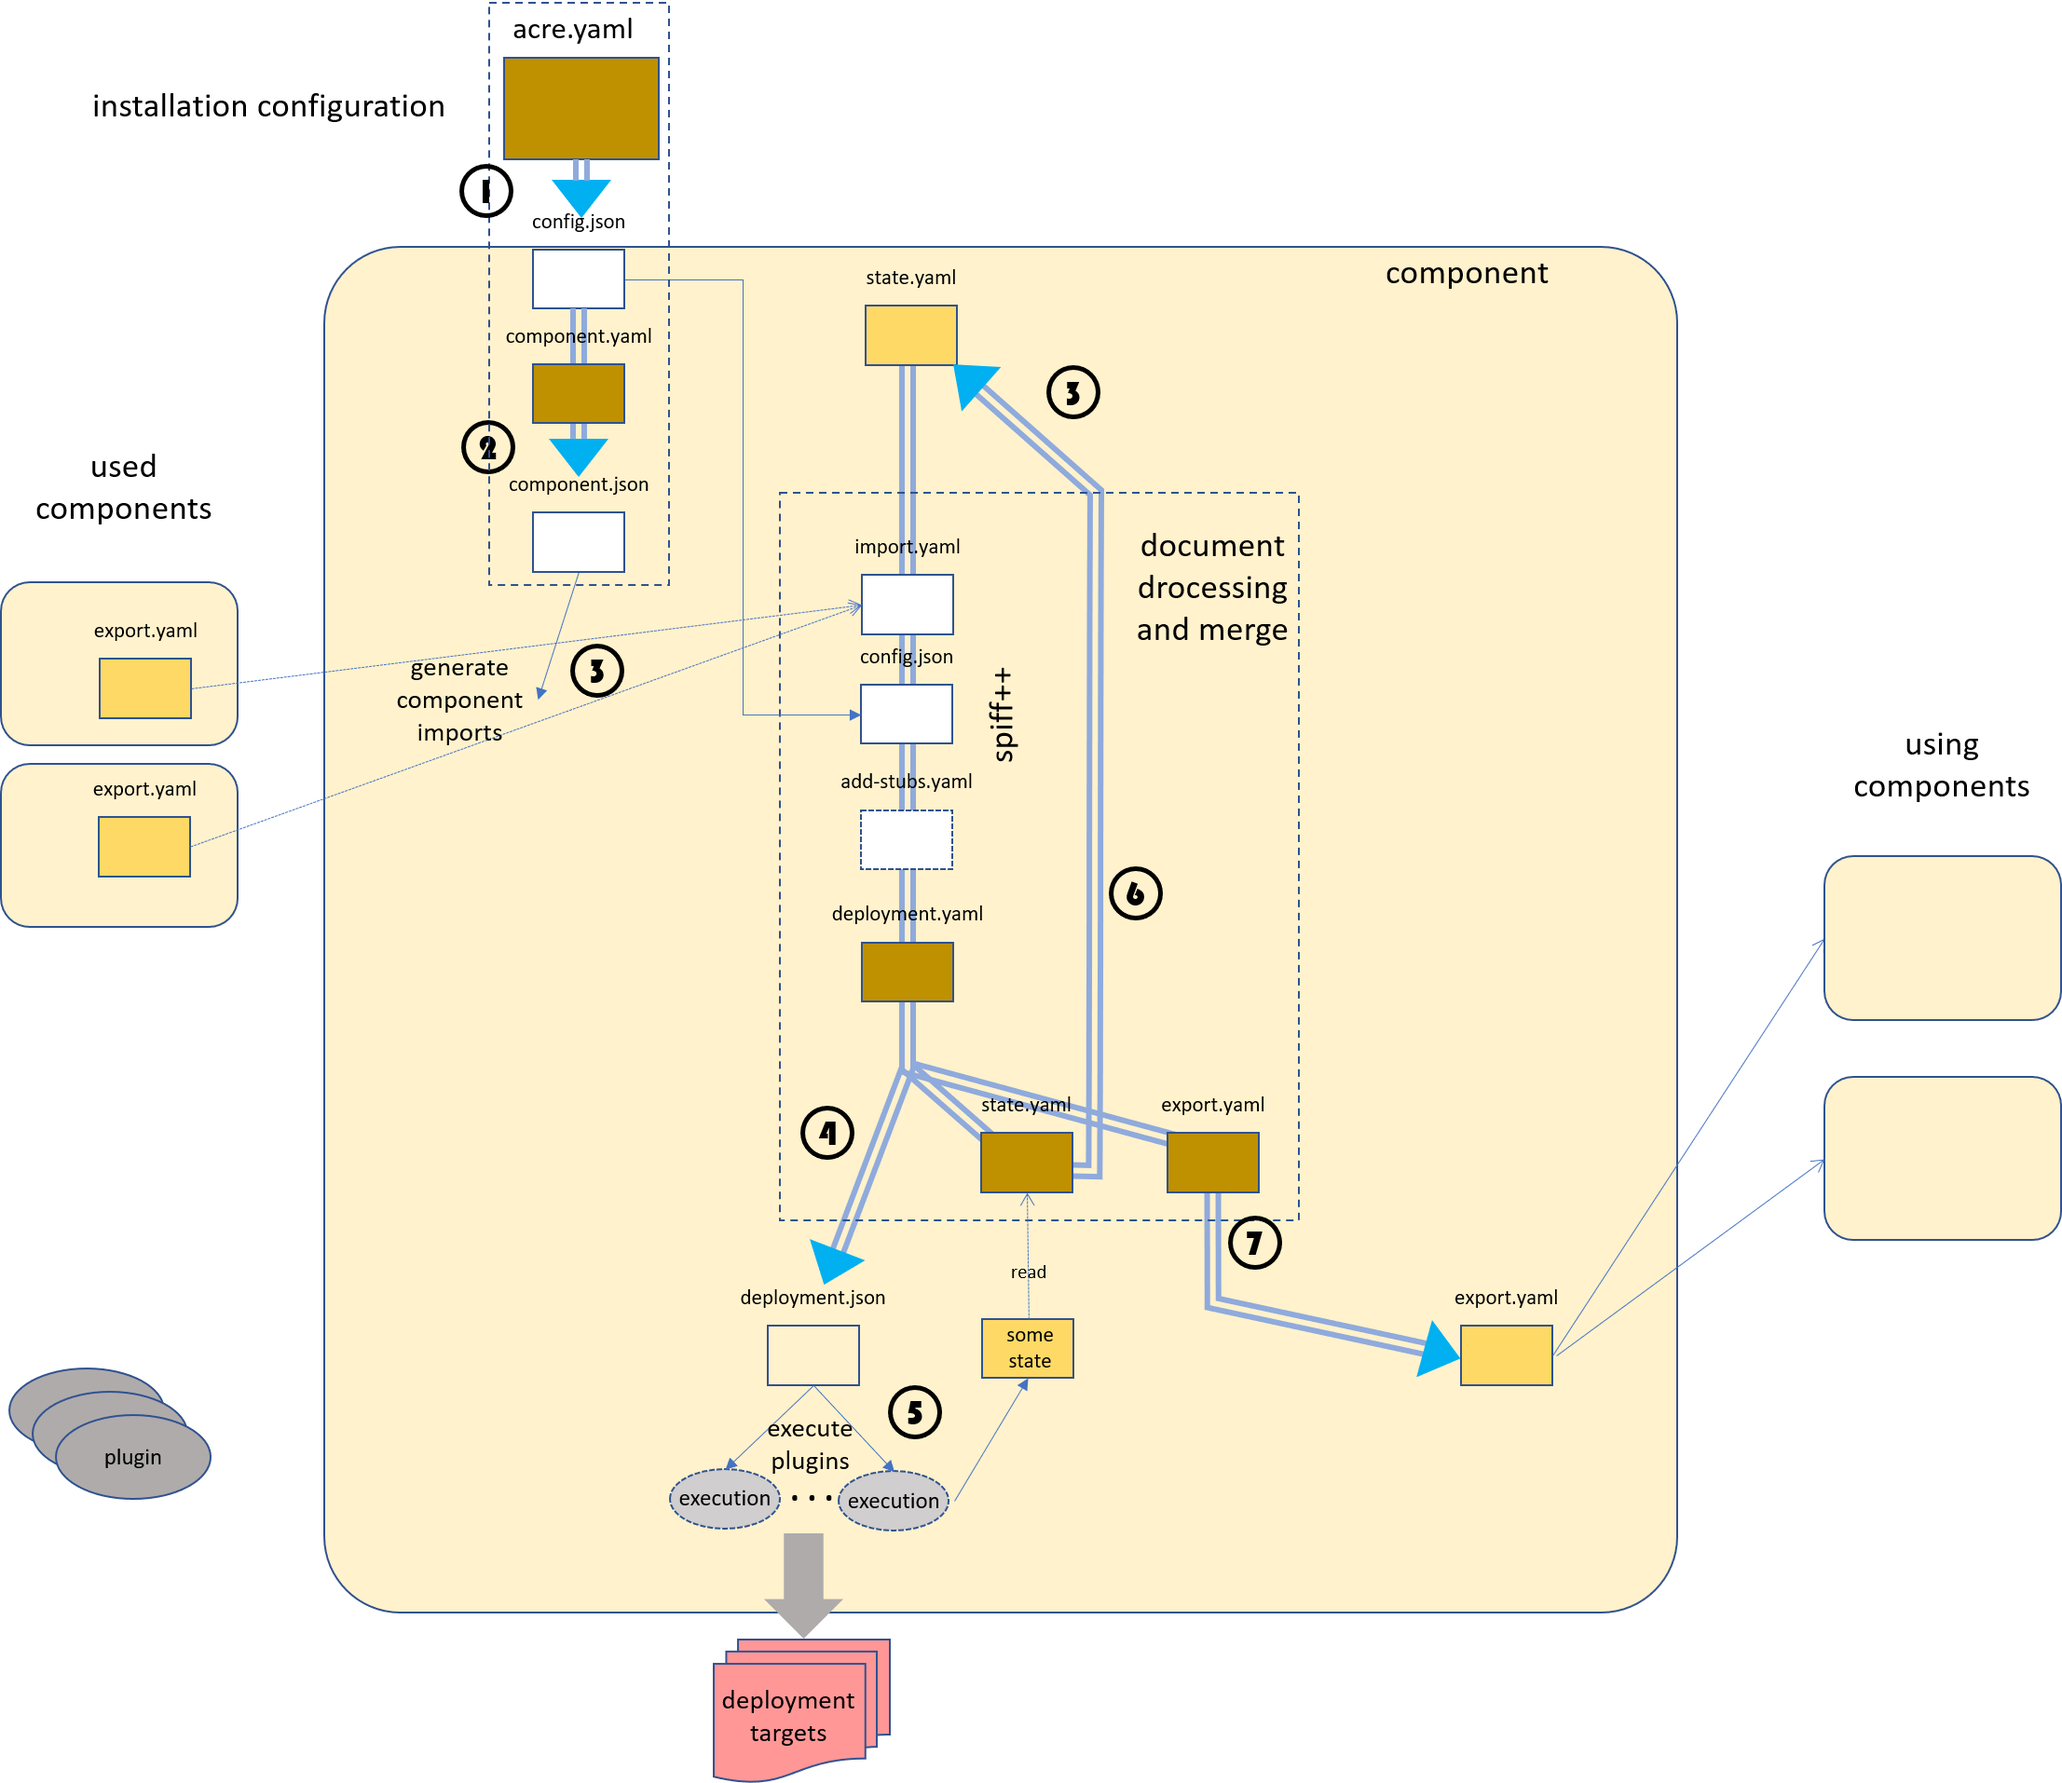
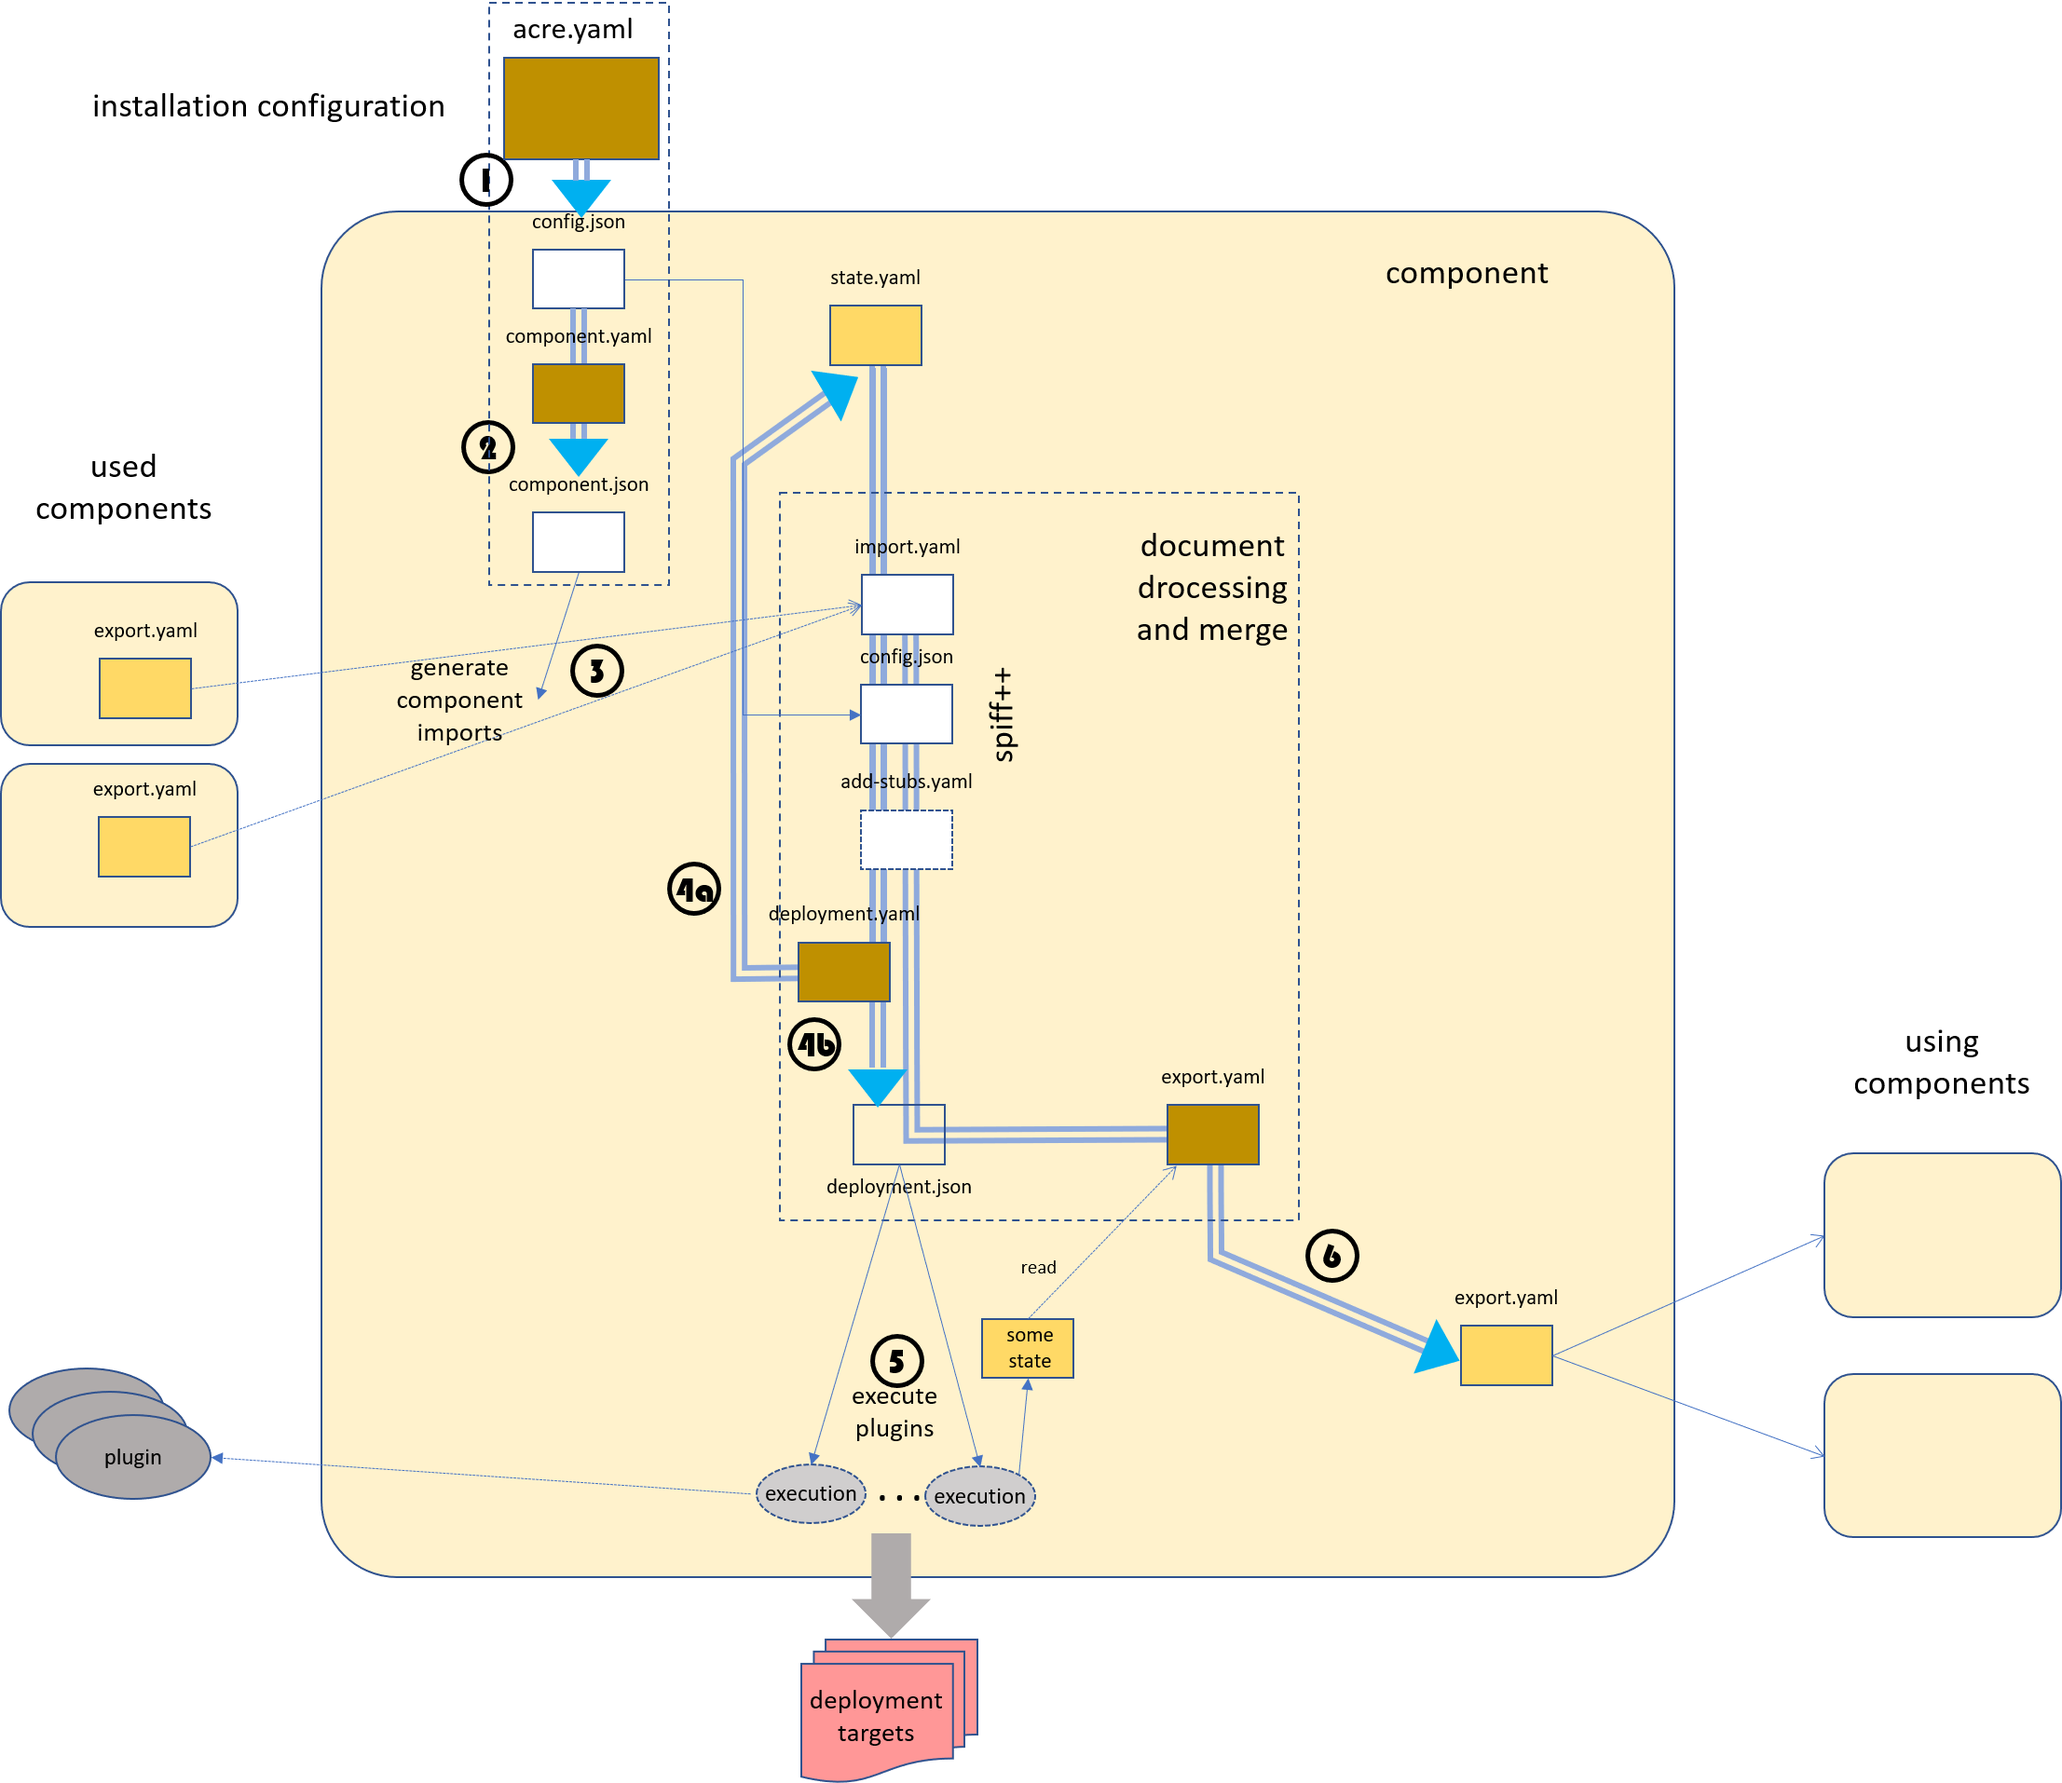
utilize spiff state support

diff --git a/README.md b/README.md
@@ -118,7 +118,6 @@ a kubernetes cluster.
 │   │   ├── comp1
 │   │   │   ├── component.yaml
 │   │   │   ├── deployment.yaml
-│   │   │   ├── state.yaml
 │   │   │   └── export.yaml
 │   │   ├── nested            # components may be nested
 │   │   │   └── comp2
@@ -126,7 +125,6 @@ a kubernetes cluster.
 │   │   │       ├── deployment.yaml
 │   │   │       ├── lib
 │   │   │       │   └── action
-│   │   .       ├── state.yaml
 │   │   .       └── export.yaml
 │   │   .
 │   │
@@ -231,8 +229,8 @@ This document is used to describe the used deployment plugins for a component an
 their configuration settings.
 It is processed by _spiff_ using some stub files.
 
-- the actual execution environment (see below)
 - the last state document (described by `state.yaml`)
+- the actual execution environment (see below)
 - the import information (see below)
 - the effective installation configuration `gen/config.json`
 - additional stubs described by the `component.yaml`
@@ -253,11 +251,17 @@ _sow_ evaluates the dependencies and generates an additional stub file
 containing the exports of all imported components.
 They are stored with their _label_ below the node `imports`.
 
-The effective deployment configuration is stored in the `gen` directory below the
-component folder.
+The effective deployment configuration is stored in the `gen` directory below
+the component folder. The deployment template also declares state fields
+(using the `&state` marker in dynaml) whose content should be kept for the
+next processing. It is automatically added to the stub list as top-level stub.
+If a manual merge should be done with the latest state such a node
+has to disable the auto.merge, also, by adding a `merge none` expression.
+(See state support of [spiff++](https://github.com/mandelsoft/spiff/README.md(#-state-)
 
-It should contain a `plugins` node listing the plugins that should be executed.
-A plugin entry may take additional string arguments and a configuration.
+The generated effective deployment manifest should contain a `plugins` node
+listing the plugins that should be executed.  A plugin entry may take
+additional string arguments and a configuration.
 
 ```yaml
 plugins:
@@ -302,21 +306,14 @@ If the plugin name start with a `-`, its execution is not notified
 on the output. This can be used for the `echo` plugin to
 echo plain multi line text.
 
-### `state.yaml`
-
-This file should describe the information that should be kept
-for subsequent executions
-
-It uses the actual effective processed `deployment.yaml` as
-stub.
-
 ### `export.yaml`
 
 This file should describe the information intended for reuse by other
 components. By convention it should be stored below an `export` node.
 
-It uses the `deployment.yaml` and all the stubs used for its processing as
-stub. As state the state of the actual execution is used.
+It uses the generated effective `deployment.yaml` and all the stubs used for
+its processing as stub. It also contains the actual state, therefore the
+state file is omitted.
 
 If it contains a `files` section the listes files (structure with `path` and
 `data` fields) are written to the components export folder.
@@ -346,17 +343,19 @@ Every component is processed separately.
   The export information of the used components are gathered and aggregated
   into a single import file.
 4. the `deployment.yaml` is processed to determine the concrete
-  plugin sequence and their configuration settings.
+  plugin sequence, their configuration settings (4b) which is stored in the
+  `gen` folder of the component and the actual (maybe updated)
+  state (4a) replacing the old state held in the state folder. Therefore the
+  state support of `spiff++` is used.
 5. the effective deploment configuration is evaluated and the plugin
   set and order is determined. Then the plugins are called in the
   appropriate order together with their dedicated configuration settings.
   The plugins might access and provide own instance specific state information.
   (For example a `terraform.thstate` file).
-6. an optional additional state can be provided by processing an
-  `state.yaml` that will be used as stub for subsequent exection of
-  deployment actions.
-7. the `export.yaml`is processed together with the latest state
-  to generate the interface information for using components.
+6. the `export.yaml`is processed together with the actual generated deployment
+  manifest and all other stubs (except the state.yaml) to generate the
+  contract information for using components. The effective `state.yaml` is
+  stored in the `export` folder of the component.
 
 ## The command
 
